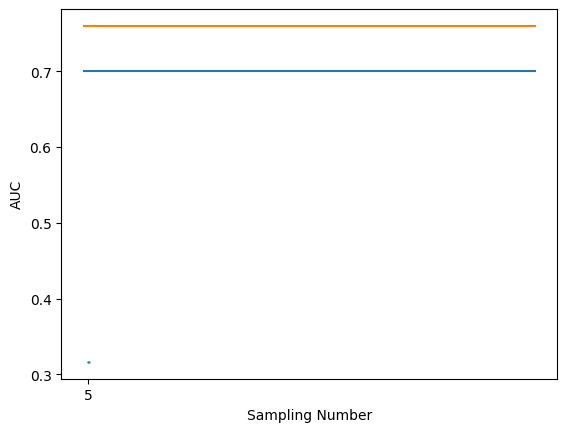
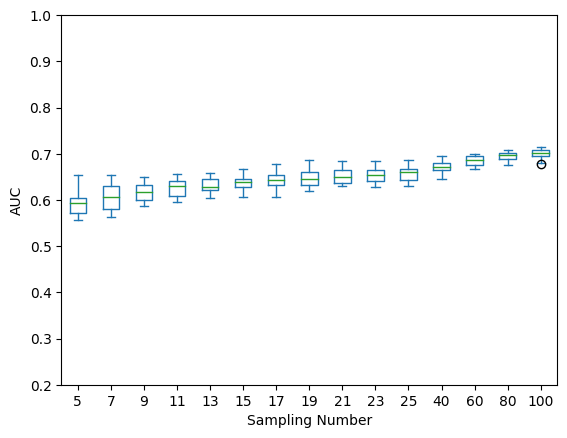
update ServerSide

diff --git a/src/findingThreshold.py b/src/findingThreshold.py
@@ -11,45 +11,49 @@ from itertools import repeat
 from env import PATH
 import multiprocessing as mp
 
-RANDOMSTATE = 42
-CPUS = 16
+RANDOMSTATE = None
+CPUS = 20
 assert CPUS < mp.cpu_count() - 1
 
 
-proteinsData = pd.read_csv(PATH+'/datasetsTese/proteomicsDataTrans.csv', index_col='modelID')
+proteinsData = pd.read_csv(
+    PATH+'/datasetsTese/proteomicsDataTrans.csv', index_col='modelID')
 
-# pairwiseCorrData = pd.read_csv(PATH+'/datasetsTese/BaseModelPairwise.csv', index_col='PPI')
+globalPairwiseCorr = pd.read_csv(
+    PATH+'/datasetsTese/BaseModelPairwise.csv', index_col='PPI')
+globalPairwiseCorr = globalPairwiseCorr['Corum']
 
 
-# What Professor Pedro did not ask For :( 
+# What Professor Pedro did not ask For :(
 
-def getAUCvsThresholdPlot(pairwiseCorrData:pd.DataFrame) -> None:
+def getAUCvsThresholdPlot(pairwiseCorrData: pd.DataFrame) -> None:
 
     # find the best count threshold n
     best = True
     previousAUC = 0
     threshold = 2
-    aucList=[]
-    thresholdList =[]
+    aucList = []
+    thresholdList = []
     while threshold < 101:
-        
+
         queriedPairCorrData = pairwiseCorrData.query('counts > @threshold')
-        corrCumSum = np.cumsum(queriedPairCorrData['Corum']) / np.sum(queriedPairCorrData['Corum'])
-        indexes = np.array(queriedPairCorrData.reset_index().index) / queriedPairCorrData.shape[0]
+        corrCumSum = np.cumsum(
+            queriedPairCorrData['Corum']) / np.sum(queriedPairCorrData['Corum'])
+        indexes = np.array(queriedPairCorrData.reset_index(
+        ).index) / queriedPairCorrData.shape[0]
         currentAUC = auc(indexes, corrCumSum)
-        #Update Lists for Curve plot
+        # Update Lists for Curve plot
         aucList.append(currentAUC)
         thresholdList.append(threshold)
-        
-        
+
         if best and currentAUC < previousAUC:
             bestPairwuiseFrequency = threshold-1
             best = False
-            print('The limit threshold of interactions were we start to lose information after increasing it is: ' + str(threshold-1) + '\n with an auc of ' + str(previousAUC))
+            print('The limit threshold of interactions were we start to lose information after increasing it is: ' +
+                  str(threshold-1) + '\n with an auc of ' + str(previousAUC))
         # print(str(currentAUC) + '>=' + str(previousAUC) + '\n' + str(best))
         threshold += 1
         previousAUC = currentAUC
-
 
     # make chart with auc per n threshold
 
@@ -59,8 +63,9 @@ def getAUCvsThresholdPlot(pairwiseCorrData:pd.DataFrame) -> None:
         aucList,
         c='green',
     )
-    ax.plot([0,100],[0.78,0.78], "r--", label='AUC == 0.78',lw=0.7)
-    ax.plot([bestPairwuiseFrequency,bestPairwuiseFrequency],[0,1], "b--", label='max n==' + str(bestPairwuiseFrequency),lw=0.6)
+    ax.plot([0, 100], [0.78, 0.78], "r--", label='AUC == 0.78', lw=0.7)
+    ax.plot([bestPairwuiseFrequency, bestPairwuiseFrequency], [0, 1],
+            "b--", label='max n==' + str(bestPairwuiseFrequency), lw=0.6)
 
     ax.legend(loc="lower right", frameon=False)
     ax.set_ybound(lower=0.6, upper=0.9)
@@ -71,20 +76,26 @@ def getAUCvsThresholdPlot(pairwiseCorrData:pd.DataFrame) -> None:
 
     plt.savefig("thresholdVSAUC.png",
                 bbox_inches="tight")
-    
+
 
 # getAUCvsThresholdPlot(pairwiseCorrData)
 
     # What Professor Pedro Asked For :)
 
 def variousRepeatsWrapper(iteration: int, sampleNum: int, proteinsData: pd.DataFrame, corum: pd.DataFrame):
+    
 
-    proteinsDatSample = proteinsData.sample(n=sampleNum, axis=0, random_state=RANDOMSTATE)
-    pairwiseCorr = utils.getPairwiseCorrelation( proteinsDatSample, None, str(sampleNum) + ' samples', False)
+    proteinsDatSample = proteinsData.sample(
+        n=sampleNum, axis=0, random_state=iteration * sampleNum)
+    pairwiseCorr = utils.getPairwiseCorrelation(
+        proteinsDatSample, None, str(sampleNum) + ' samples', False)
     del proteinsDatSample
-    pairwiseCorr = utils.addGroundTruth(corum, pairwiseCorr, 'corum', None)
-    corrCumSum = np.cumsum(pairwiseCorr['corum']) / np.sum(pairwiseCorr['corum'])
-    indexes = np.array(pairwiseCorr.reset_index().index) / pairwiseCorr.shape[0]
+    pairwiseCorr = pairwiseCorr.merge(globalPairwiseCorr, on='PPI', how='left')
+    # pairwiseCorr = utils.addGroundTruth(corum, pairwiseCorr.head(2000), 'Corum', None) DEPRECATED
+    corrCumSum = np.cumsum(
+        pairwiseCorr['Corum']) / np.sum(pairwiseCorr['Corum'])
+    indexes = np.array(pairwiseCorr.reset_index().index) / \
+        pairwiseCorr.shape[0]
     del pairwiseCorr
     AUC = auc(indexes, corrCumSum)
 
@@ -94,17 +105,13 @@ def variousRepeatsWrapper(iteration: int, sampleNum: int, proteinsData: pd.DataF
 
 def wrapperCheckPPIs(sampleNum: int, repeats: int, proteinsData: pd.DataFrame, corum: pd.DataFrame):
 
-    
-
-
-    with mp.Pool(CPUS) as process:    
-        checkPPIGen = process.starmap(variousRepeatsWrapper, zip(range(0, repeats), repeat(sampleNum), repeat(proteinsData), repeat(corum)))  # While Cycle
+    with mp.Pool(CPUS) as process:
+        checkPPIGen = process.starmap(variousRepeatsWrapper, zip(range(0, repeats), repeat(
+            sampleNum), repeat(proteinsData), repeat(corum)))  # While Cycle
     result = list(checkPPIGen)
     print(result)
 
-
     return sampleNum, result
-
 
 
 def randomSubSamplingAUC(proteinsData: pd.DataFrame, subsampleSizes: list[int], repeats: int):
@@ -112,12 +119,11 @@ def randomSubSamplingAUC(proteinsData: pd.DataFrame, subsampleSizes: list[int], 
     corum = ppiDataset(filename=PATH + '/externalDatasets/corumPPI.csv.gz')
     corum = corum.getPPIs(True)
 
-
-    checkPPIGen = map(wrapperCheckPPIs, subsampleSizes,  repeat(repeats), repeat(proteinsData), repeat(corum))  # First For Cycle
+    checkPPIGen = map(wrapperCheckPPIs, subsampleSizes,  repeat(
+        repeats), repeat(proteinsData), repeat(corum))  # First For Cycle
 
     allAUC = pd.DataFrame(dict(checkPPIGen))
 
-    
     # DEPRECATED UNPARARELIZED CODE
     # # Random Sampling
     # for sampleNum in subsampleSizes:
@@ -131,11 +137,10 @@ def randomSubSamplingAUC(proteinsData: pd.DataFrame, subsampleSizes: list[int], 
     #         pairwiseCorr = utils.getPairwiseCorrelation(
     #             proteinsDatSample, None, str(sampleNum) + ' samples', False)
     #         del proteinsDatSample
-            
+
     #         pairwiseCorr = utils.addGroundTruth(corum, pairwiseCorr, 'corum', None)
     #         end = time.time()
     #         sumOfTime += end-start
-            
 
     #         corrCumSum = np.cumsum(pairwiseCorr['corum']) / np.sum(pairwiseCorr['corum'])
     #         indexes = np.array(pairwiseCorr.reset_index().index) / pairwiseCorr.shape[0]
@@ -143,29 +148,27 @@ def randomSubSamplingAUC(proteinsData: pd.DataFrame, subsampleSizes: list[int], 
     #         aucList.append(AUC)
     #         del pairwiseCorr
     #         iteration += 1
-        
+
     #     print(aucList)
     #     print(sumOfTime/repeats)
     #     allAUC[str(sampleNum)] = aucList
 
     # Plot each AUC in the various boxplot chart
-    print(allAUC)
-    ax = allAUC.plot(kind='box')
-    ax.plot([0, 100], [0.70, 0.70], label= 'AUC == 0.7')
-    ax.plot([0, 100], [0.76, 0.76], label='Baseline Model, 0.76')
-    ax.set_xbound(lower=0, upper=30)
+    ax = allAUC.plot(kind='box', figsize=(8,6))
     ax.set_ybound(lower=0.2, upper=1)
+    ax.set_x
     ax.set_ylabel("AUC")
-    ax.set_xlabel("Sampling Number") 
-        
-    plt.savefig("aucPerSamplingNumber.png",
+    ax.set_xlabel("Sampling Number")
+    ax.xticks(rotation=90)
+
+    plt.savefig("aucPerSamplingNumberv2.0.png",
                 bbox_inches="tight")
-        
+
 
 if __name__ == '__main__':
-    subsamplingList = [5, 7, 9, 11, 13, 15, 17, 19, 21, 23, 25, 40, 60, 80, 100]
+    subsamplingList = list(range(5,27,2)) + list(range(40, 120, 20)) + list(range(150, 900, 50))
     start = time.time()
-    randomSubSamplingAUC(proteinsData, subsamplingList[0:11], 10)
+    randomSubSamplingAUC(proteinsData, subsamplingList, 10)
     end = time.time()
     sumOfTime = end-start
     print(sumOfTime)

diff --git a/src/baseModel.py b/src/baseModel.py
@@ -81,26 +81,26 @@ plt.savefig("baselineRecallCurve.png",
             bbox_inches="tight")
 plt.close("all")
 
-# %% Chose Tissues To calculate correlation for presentation
+# # %% Chose Tissues To calculate correlation for presentation
 
-valuesSet, valuesDict = utils.getUniqueSetValues(
-    filepath=PATH + "/datasetsTese/samplesheet.csv", feature='tissue')
+# valuesSet, valuesDict = utils.getUniqueSetValues(
+#     filepath=PATH + "/datasetsTese/samplesheet.csv", feature='tissue')
 
-finalTissueSet = set()
-for (key, value) in valuesDict.items():
-    if (value >= 50):
-        finalTissueSet.add(key)
+# finalTissueSet = set()
+# for (key, value) in valuesDict.items():
+#     if (value >= 50):
+#         finalTissueSet.add(key)
 
-mergedDf = pairwiseCorrData
+# mergedDf = pairwiseCorrData
 
-for tissue in finalTissueSet:
+# for tissue in finalTissueSet:
 
-    modelsSet = utils.getModelsByQuery('samplesheet', 'tissue', tissue)
-    specificProteinsData = proteinsData.query('modelID in @modelsSet') # Query that retreives the df with only the models belonging to the modelsSet local var
-    tissueSpecificDF = utils.getPairwiseCorrelation(
-        specificProteinsData, None, tissue + " Specific Correlation")
-    mergedDf = mergedDf.merge(right=tissueSpecificDF, on='PPI', how='outer')
+#     modelsSet = utils.getModelsByQuery('samplesheet', 'tissue', tissue)
+#     specificProteinsData = proteinsData.query('modelID in @modelsSet') # Query that retreives the df with only the models belonging to the modelsSet local var
+#     tissueSpecificDF = utils.getPairwiseCorrelation(
+#         specificProteinsData, None, tissue + " Specific Correlation")
+#     mergedDf = mergedDf.merge(right=tissueSpecificDF, on='PPI', how='outer')
     
-# %% Debug
-dropedNaNsMergedDf.query('`Lung Specific Correlation` > 0.5 +`Ovary Specific Correlation` & Corum == 1')
-#01 %%
+# # %% Debug
+# dropedNaNsMergedDf.query('`Lung Specific Correlation` > 0.5 +`Ovary Specific Correlation` & Corum == 1')
+# #01 %%

diff --git a/src/mofaModel.py b/src/mofaModel.py
@@ -1,0 +1,54 @@
+# %% Imports
+import pandas as pd
+import seaborn as sb
+import numpy as np
+from sklearn.metrics import auc
+import matplotlib.pyplot as plt
+import utils
+from classes import ppiDataset
+
+from env import PATH
+
+# %% Load Dataset
+
+proteinsData = pd.read_csv(
+    PATH + '/datasetsTese/dummy.csv', index_col='modelID')
+
+# %% Load external Datasets
+
+corum = ppiDataset(filename=PATH + '/externalDatasets/corumPPI.csv.gz')
+corum = corum.getPPIs(True)
+
+pairwiseCorr = utils.getPairwiseCorrelation(
+    fileName=None, data=proteinsData, columnName='mofaCorrelation')
+
+pairwiseCorr = utils.addGroundTruth(corum, pairwiseCorr, 'Corum', None)
+
+# %% Create Recall Curves
+corrCumSum = np.cumsum(
+    pairwiseCorr['Corum']) / np.sum(pairwiseCorr['Corum'])
+indexes = np.array(pairwiseCorr.reset_index().index) / \
+    pairwiseCorr.shape[0]
+AUC = auc(indexes, corrCumSum)
+
+
+_, ax = plt.subplots(1, 1, figsize=(4, 3), dpi=600)
+ax.plot(
+    indexes,
+    corrCumSum,
+    label=f"(AUC {AUC:.2f})",
+    c='blue',
+)
+
+ax.plot([0, 1], [0, 1], "k--", lw=0.3)
+ax.legend(loc="lower right", frameon=False)
+
+ax.set_ylabel("Cumulative sum")
+ax.set_xlabel("Ranked correlation")
+ax.grid(True, axis="both", ls="-", lw=0.1, alpha=1.0, zorder=0)
+
+# plt.savefig(f"{RPATH}/PPInteractions_roc_curves_overlap.pdf",
+#             bbox_inches="tight")
+plt.savefig("mofaModelRecallCurve.png",
+            bbox_inches="tight")
+plt.close("all")
